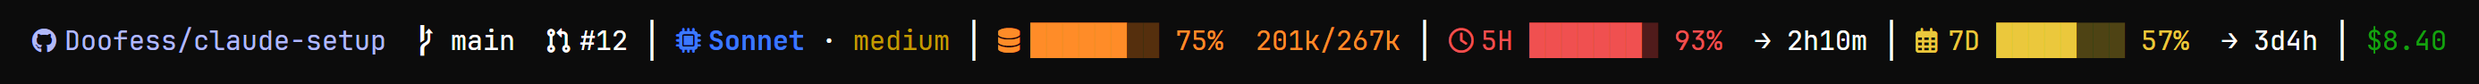
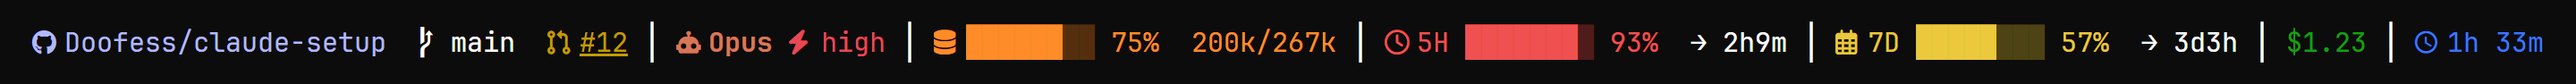
Colour round live check: drop the You ran card, turn-line spacing, README pictures (#26)
* session-cards: drop the You ran card; the turn-end line keeps the blank line above it

- Seen live (2.1.310): a typed slash command raises UserMessage, but the engine
  draws its own echo row there whatever the hook returns, so the violet You ran
  card never showed. Its only effect was a wrong card on a prompt the engine sends
  on that starts with a path (`/tmp is full`). Every typed prompt is the You
  prompted card again; the violet card for a command's output stays.
- The engine's turn-end line has a blank line above it; the mod's row replaces
  that whole line, so it sat right under the reply. It now has marginTop 1.

* README: pictures re-shot for the colour round, the turn-end line described

The status bar pictures are rendered again from statusbar.py in Campbell colours
and the Nerd Font (robot, bolt, orange Opus, yellow PR, session time); the hint
line picture is a capture of a 104-column session. Alt texts follow the repo that
is now shortened rather than dropped.

---------

Changed region(s): [[0.0, 0.2553, 0.9928, 0.7234]]

diff --git a/mods/session-cards/tests/cards.test.tsx b/mods/session-cards/tests/cards.test.tsx
@@ -2,7 +2,7 @@ import { expect, mock, test, type TestBody } from 'claude-code/testing'
 
 import type { PromptOrigin } from 'claude-code'
 
-import { clock, isSlashCommand, promptText } from '../hooks/register'
+import { clock, promptText } from '../hooks/register'
 
 const MESSAGE = (requestId: string, text: string, origin: PromptOrigin = { kind: 'composer' }) =>
   ({
@@ -24,7 +24,6 @@ const engine = (on: Parameters<TestBody>[1]) => {
 }
 
 const HEADER = '\uf007  You prompted'
-const RAN = '\uf007  You ran'
 
 test('a prompt is an accent card headed You prompted and the time', async ($, on) => {
   const time = mock.clock(on, { now: new Date(2026, 9, 23, 14, 32).getTime() })
@@ -47,41 +46,15 @@ test('a prompt is an accent card headed You prompted and the time', async ($, on
   await ui.unmount()
 })
 
-test('a slash command is a violet card headed You ran', async ($, on) => {
-  const time = mock.clock(on, { now: new Date(2026, 9, 24, 16, 5).getTime() })
-  engine(on)
-
-  await $.prompt.submit({ text: '/code-review high', wait: false, origin: { kind: 'composer' } })
-
-  const ui = await $.ui.mount(MESSAGE('m1', '/code-review high'))
-  expect((await ui.find({ type: 'Box' }))?.props.borderColor).toBe('permission')
-
-  const head = await ui.find({ type: 'Text', text: /You ran/ })
-  expect(head?.text).toBe(`${RAN} · ${clock(time.now())}`)
-  expect(head?.props.bold).toBe(true)
-  expect(head?.props.color).toBe('permission')
-
-  expect(await ui.find({ type: 'Text', text: /^\/code-review high$/ })).toBeDefined()
-  await ui.unmount()
-})
-
-test('a slash command typed over several lines is drawn whole', async ($, on) => {
+test('a prompt that starts with a path is a prompt card', async ($, on) => {
+  // The engine draws a typed slash command's row itself, whatever a hook returns: only text it sends on as a prompt reaches here.
   mock.clock(on)
   engine(on)
 
-  const ui = await $.ui.mount(MESSAGE('m1', '/review\nthe parser\nand its tests'))
-  expect((await ui.find({ type: 'Text', text: /You ran/ }))?.text).toBe(RAN)
-  expect(await ui.find({ type: 'Text', text: '/review\nthe parser\nand its tests' })).toBeDefined()
+  const ui = await $.ui.mount(MESSAGE('m1', '/tmp is full, why?'))
+  expect((await ui.find({ type: 'Box' }))?.props.borderColor).toBe('claude')
+  expect((await ui.find({ type: 'Text', text: /You prompted/ }))?.text).toBe(HEADER)
   await ui.unmount()
-})
-
-test('test_is_slash_command', () => {
-  expect(isSlashCommand('/model')).toBe(true)
-  expect(isSlashCommand('/code-review high')).toBe(true)
-  expect(isSlashCommand('  /plugin:skill x')).toBe(true)
-  expect(isSlashCommand('/c/dev/x is a path')).toBe(false)
-  expect(isSlashCommand('hello /model')).toBe(false)
-  expect(isSlashCommand('<pasted_content id="a">\n/model\n</pasted_content id="a">')).toBe(true)
 })
 
 test('a row with no recorded time has no clock', async ($, on) => {

diff --git a/mods/session-cards/hooks/register.tsx b/mods/session-cards/hooks/register.tsx
@@ -15,10 +15,6 @@ export function promptText(text: string): string {
   return text.replace(WRAPPER, '')
 }
 
-/** A prompt that runs a slash command: `/name` first, then a space or the end. A path such as `/c/dev …` is not one. */
-export function isSlashCommand(text: string): boolean {
-  return /^\/[A-Za-z0-9:_-]+(\s|$)/.test(promptText(text).trimStart())
-}
 
 /** `HH:MM`, 24-hour, in the machine's local time. */
 export function clock(ms: number): string {
@@ -500,8 +496,9 @@ export const register: Register = on => {
     const line = turnLine(record)
     const { Box, Text } = $.ui.resolve(e)
 
+    // The engine's line keeps a blank line above it; the row it replaces is that whole line.
     return (
-      <Box flexDirection="row" width="100%">
+      <Box flexDirection="row" width="100%" marginTop={1}>
         <Box minWidth={2}>
           <Text color="claude">✻</Text>
         </Box>
@@ -560,14 +557,11 @@ export const register: Register = on => {
       }
     }
 
-    // A slash command is a card of its own, in the permission violet.
-    const command = isSlashCommand(text)
-    const colour = command ? 'permission' : 'claude'
-    const header = `  ${command ? 'You ran' : 'You prompted'}${at === null ? '' : ` · ${clock(at)}`}`
+    const header = `  You prompted${at === null ? '' : ` · ${clock(at)}`}`
 
     return (
-      <Box flexDirection="column" borderStyle="round" borderColor={colour} paddingX={1}>
-        <Text color={colour} bold>
+      <Box flexDirection="column" borderStyle="round" borderColor="claude" paddingX={1}>
+        <Text color="claude" bold>
           {header}
         </Text>
         <Text>{promptText(text)}</Text>

diff --git a/mods/session-cards/tests/turn.test.tsx b/mods/session-cards/tests/turn.test.tsx
@@ -70,8 +70,9 @@ test('a finished turn is coloured', async ($, on) => {
   expect(parts[3]?.props.color).toBe('success')
   expect(await ui.find({ type: 'Text', text: /still running/ })).toBeUndefined()
 
-  // The ✻ sits in a cell two wide, in a row, as the engine lays it out.
+  // The ✻ sits in a cell two wide, in a row a blank line below the reply, as the engine lays it out.
   expect((await ui.find({ type: 'Box' }))?.props.flexDirection).toBe('row')
+  expect((await ui.find({ type: 'Box' }))?.props.marginTop).toBe(1)
   await ui.unmount()
 })
 

diff --git a/README.md b/README.md
@@ -4,7 +4,7 @@ My Claude Code setup, kept in git so every PC I use looks and behaves the same. 
 Windows machine: global rules, agents, plugins, a custom status bar, a mod that tidies the conversation view, and the
 terminal's font and colours.
 
-![The status bar: repo, branch, PR, model and effort, context meter, 5-hour and 7-day plan meters, cost](docs/images/statusbar.png)
+![The status bar: repo, branch, PR, model and effort, context meter, 5-hour and 7-day plan meters, cost, session time](docs/images/statusbar.png)
 
 ## What you see
 
@@ -31,12 +31,12 @@ the plan meters. Repo, branch, model and context always stay; on a very narrow w
 letters of its name. Once the line fits, any dropped piece that still fits comes back, so
 no room is wasted:
 
-<img src="docs/images/statusbar-narrow.png" width="364" alt="The bar at 60 columns: only branch, model, effort and context remain">
+<img src="docs/images/statusbar-narrow.png" width="380" alt="The bar at 60 columns: the repo cut to claude-s…, then branch, model and context">
 
 Dropped pieces aren't lost. The session-cards mod (below) moves them onto Claude Code's hint line, beside the
 permissions text, so a piece only disappears once both lines are full:
 
-![At 104 columns the bar keeps branch, model, context and plan meters; the repo, the 5-hour reset and the cost move onto the hint line](docs/images/hint-overflow.png)
+![At 104 columns the bar keeps repo, branch, model, effort, context and the 5-hour meter; the 5-hour reset, the 7-day meter and the cost move onto the hint line](docs/images/hint-overflow.png)
 
 The icons come from a Nerd Font. On a machine without one, the installer switches the bar to short words instead
 (`ctx`, `5H`, `7D`), so it reads fine in any monospace font. To see the bar without starting Claude Code, run
@@ -48,6 +48,8 @@ The icons come from a Nerd Font. On a machine without one, the installer switche
 
 - **Your prompts** become a coloured card headed with the time you sent them, so you can find your own messages again.
 - **Slash-command output** gets a violet card of its own.
+- **The end of each turn** is a coloured line with how long it took and when it finished (`✻ Baked for 1s · done 4:20 PM`).
+  While a background shell or agent still runs, Claude Code's own line stays, since only it knows when they end.
 - **Tool calls** shrink to one short row each: an icon and a few words. Runs of reads, searches and shell commands
   keep Claude Code's own one-line summary ("Searched for 1 pattern, read 1 file…"), as in the picture below.
 - **Agents** get a row showing the agent type, its model and effort (in the same colours as the status bar), what it's
